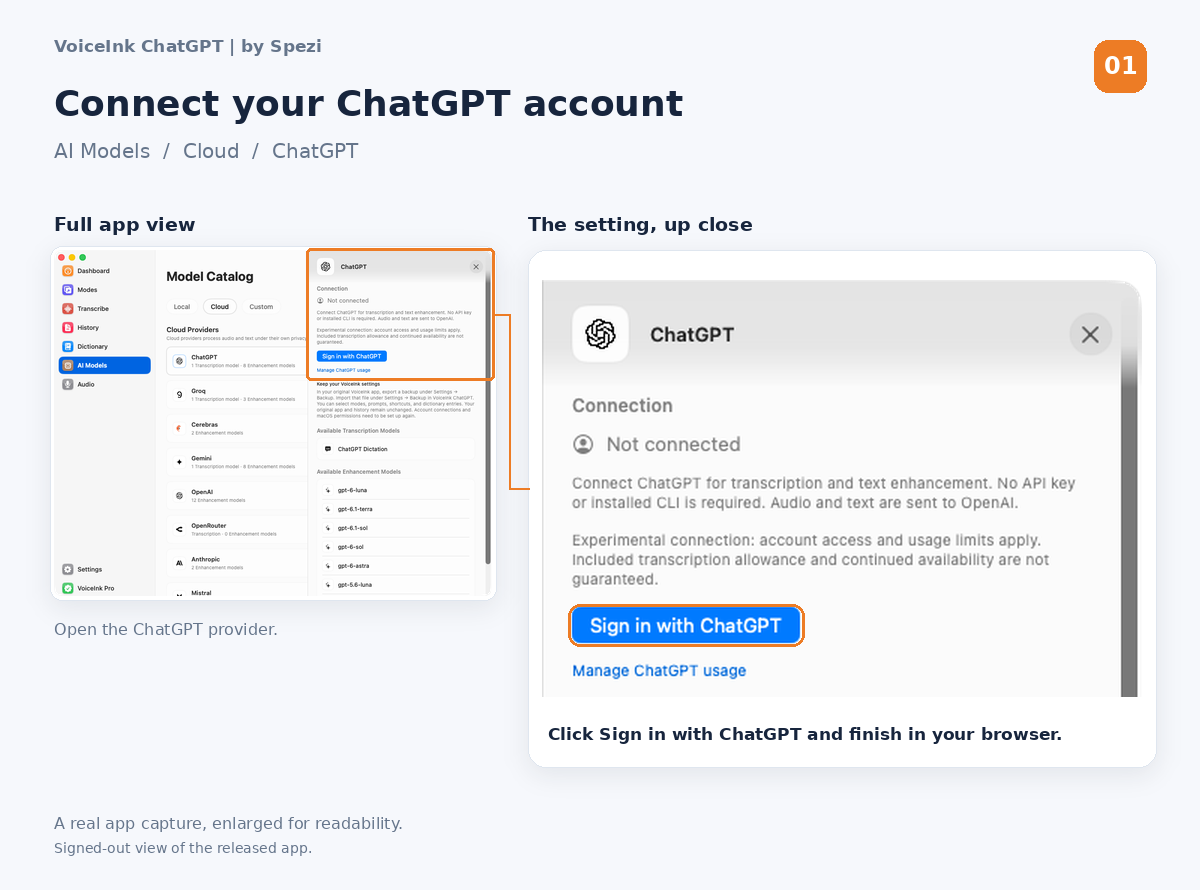
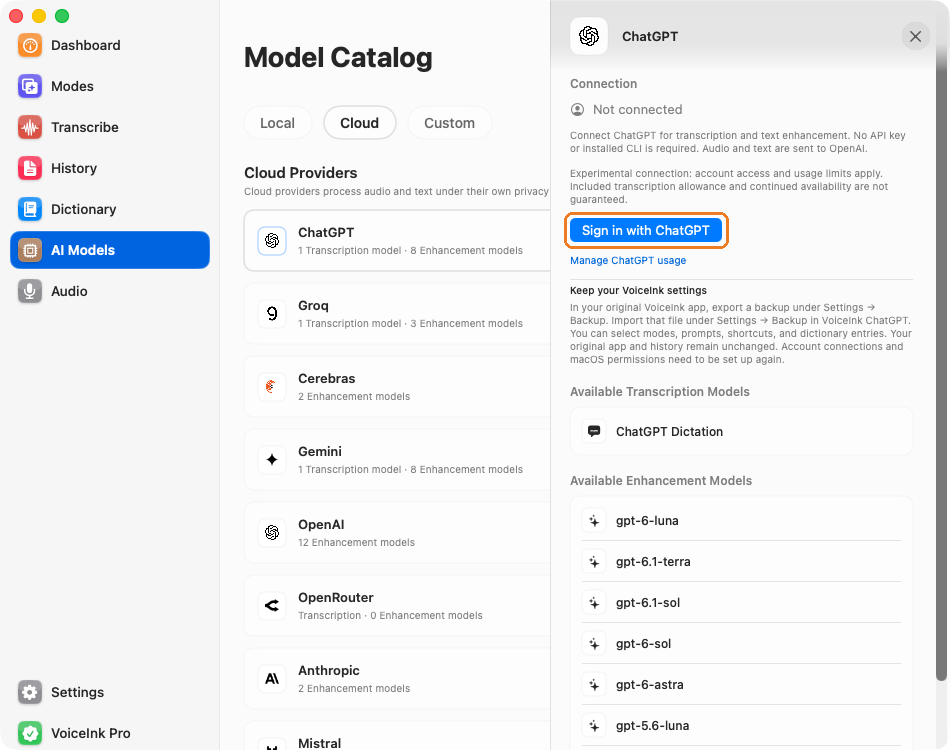
Simplify setup screenshots to full app views with frames

diff --git a/PROJECT_STATUS.md b/PROJECT_STATUS.md
@@ -19,7 +19,7 @@ Updated: 2026-11-06 UTC. Read with `AGENTS.md`; use Actions for live build statu
 - Independent packaging and upstream merge reviews were completed. No live ChatGPT account was used in CI; user testing on a Mac remains the runtime confirmation.
 - Release packaging verifies the extracted ZIP and mounted DMG, app identity/version and signatures. Publication uploads complete DMG, ZIP, checksums and source provenance before making a release visible.
 - Downloads and version details belong in GitHub Releases. README installation guidance stays general.
-- The setup guide includes three real captures of released Build 228: ChatGPT sign-in, ChatGPT Dictation selection, and text model/reasoning selection. Selection examples use clearly labeled disposable demo settings, without a real account or service request. Each guide pairs a prominent full app overview with an enlarged detail, linked by orange highlights and a short English instruction. The original overview is larger and the detail includes more surrounding UI than the initial layout preview. All requested controls were visually checked independently. Documentation images do not trigger an app rebuild.
+- The setup guide includes three real captures of released Build 228: ChatGPT sign-in, ChatGPT Dictation selection, and text model/reasoning selection. Selection examples use clearly labeled disposable demo settings, without a real account or service request. Full app screenshots use simple orange frames around the sign-in button, transcription model, and enhancement settings, without zoomed details or arrows. Original dimensions and all pixels outside the frame outlines are preserved; the three final images were visually checked. Documentation images do not trigger an app rebuild.
 - Build 228 is a regular release marked **Latest**; future releases are marked latest after all assets upload. The experimental nature of the ChatGPT integration remains documented.
 - New agent commits use **Spezi (Codex)**. Existing commits and upstream attribution remain unchanged. Keep commits focused on lasting changes; temporary build progress belongs in Actions or local notes.
 - At the user's request, redundant migration progress commits were consolidated after a verified recoverable backup. The final file tree, upstream merge and earlier feature history were preserved. Do not rewrite the published release commit/tag.

diff --git a/AGENTS.md b/AGENTS.md
@@ -16,7 +16,7 @@ For new agent-authored commits, use author and committer name `Spezi (Codex)` wi
 - Mark completed app releases as regular **Latest** releases so they appear in the repository sidebar. Keep experimental integration and signing limitations documented; do not replace release assets when changing visibility/labels.
 - Keep download assets and version-specific download links in GitHub Releases. The README should describe features and installation without a manually maintained download/version block.
 - Keep the three setup screenshots beside their corresponding features: ChatGPT connection/sign-in button, transcription-model selection, and text-model/reasoning selection. Use real app captures; explicitly label offline demo settings and never include personal data or real credentials. Refresh screenshots when those controls change.
-- Present setup guides as a prominent full app overview beside an enlarged detail, with a short English instruction and subtle orange highlights linking the two. Compose deterministically from genuine captures without generative image editing; preserve UI text, keep controls unobscured, and retain enough surrounding UI for orientation.
+- Use full app screenshots with simple orange frames around the relevant controls. No zoomed details, side-by-side compositions or arrows. Add frames deterministically to genuine captures without generative image editing; preserve original dimensions, UI text and all pixels outside the frame outlines.
 
 ## Maintain the handoff
 

diff --git a/README.md b/README.md
@@ -15,7 +15,7 @@ User-tested with **ChatGPT Plus and Pro ($100/month)**. Model access and usage l
 
 Open **AI Models → Cloud → ChatGPT**, click **Sign in with ChatGPT**, and complete sign-in in your browser. This connects your account for both transcription and optional text enhancement.
 
-*Each guide pairs a full app view with an enlarged detail. Orange highlights show where to look.*
+*Orange frames highlight the relevant controls in each full app screenshot.*
 
 ![ChatGPT provider settings with the Sign in with ChatGPT button](docs/images/chatgpt-connect.png)
 

diff --git a/CHANGELOG.md b/CHANGELOG.md
@@ -2,7 +2,7 @@
 
 ## Documentation · 2026-11-06
 
-- 🖼 Added three setup guides pairing real app overviews with enlarged sign-in, transcription and model/reasoning controls.
+- 🖼 Added three full app screenshots with simple frames highlighting sign-in, transcription and model/reasoning controls.
 
 ## VoiceInk 2.25 — ChatGPT Build 228 · 2026-11-06
 
